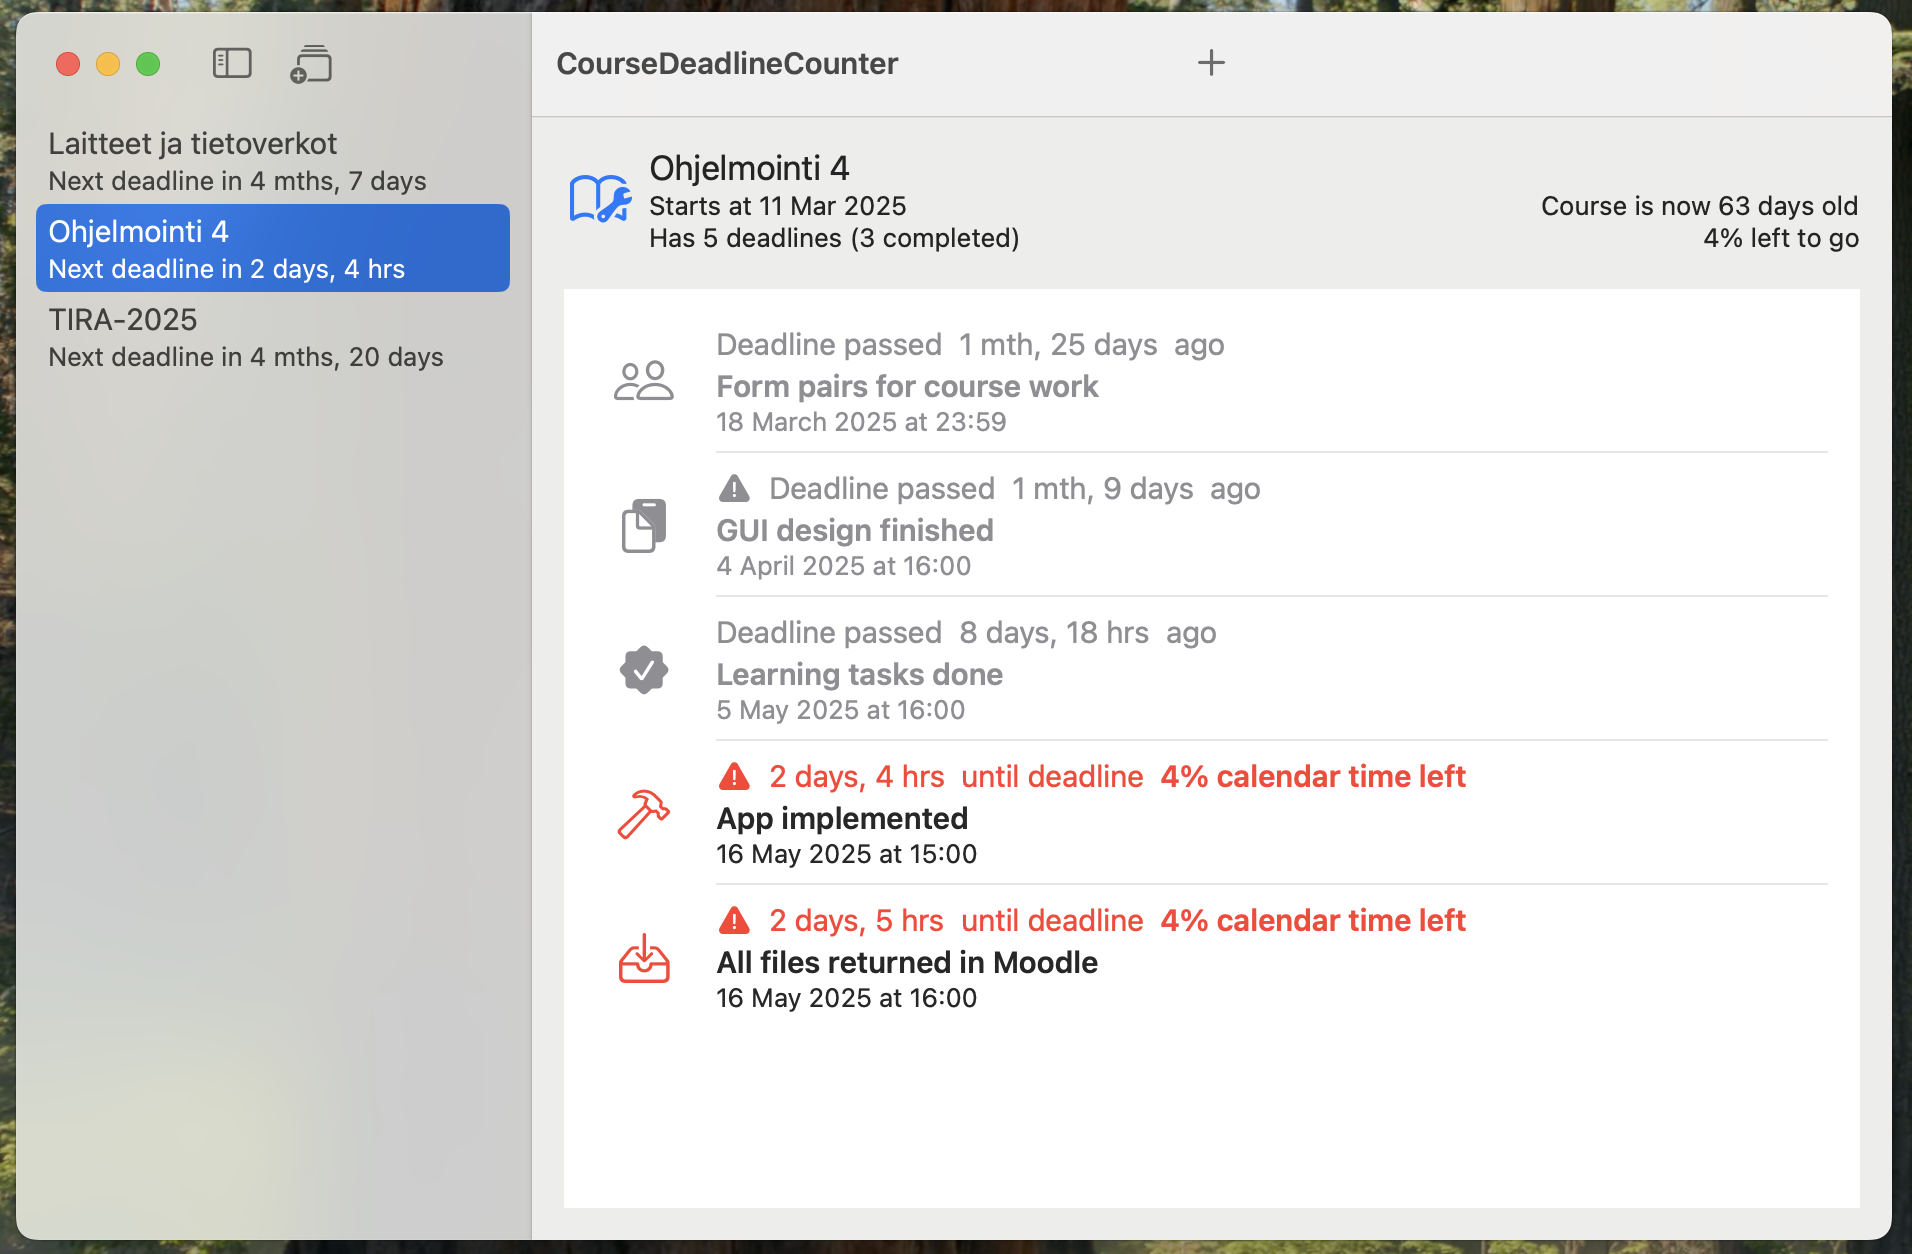
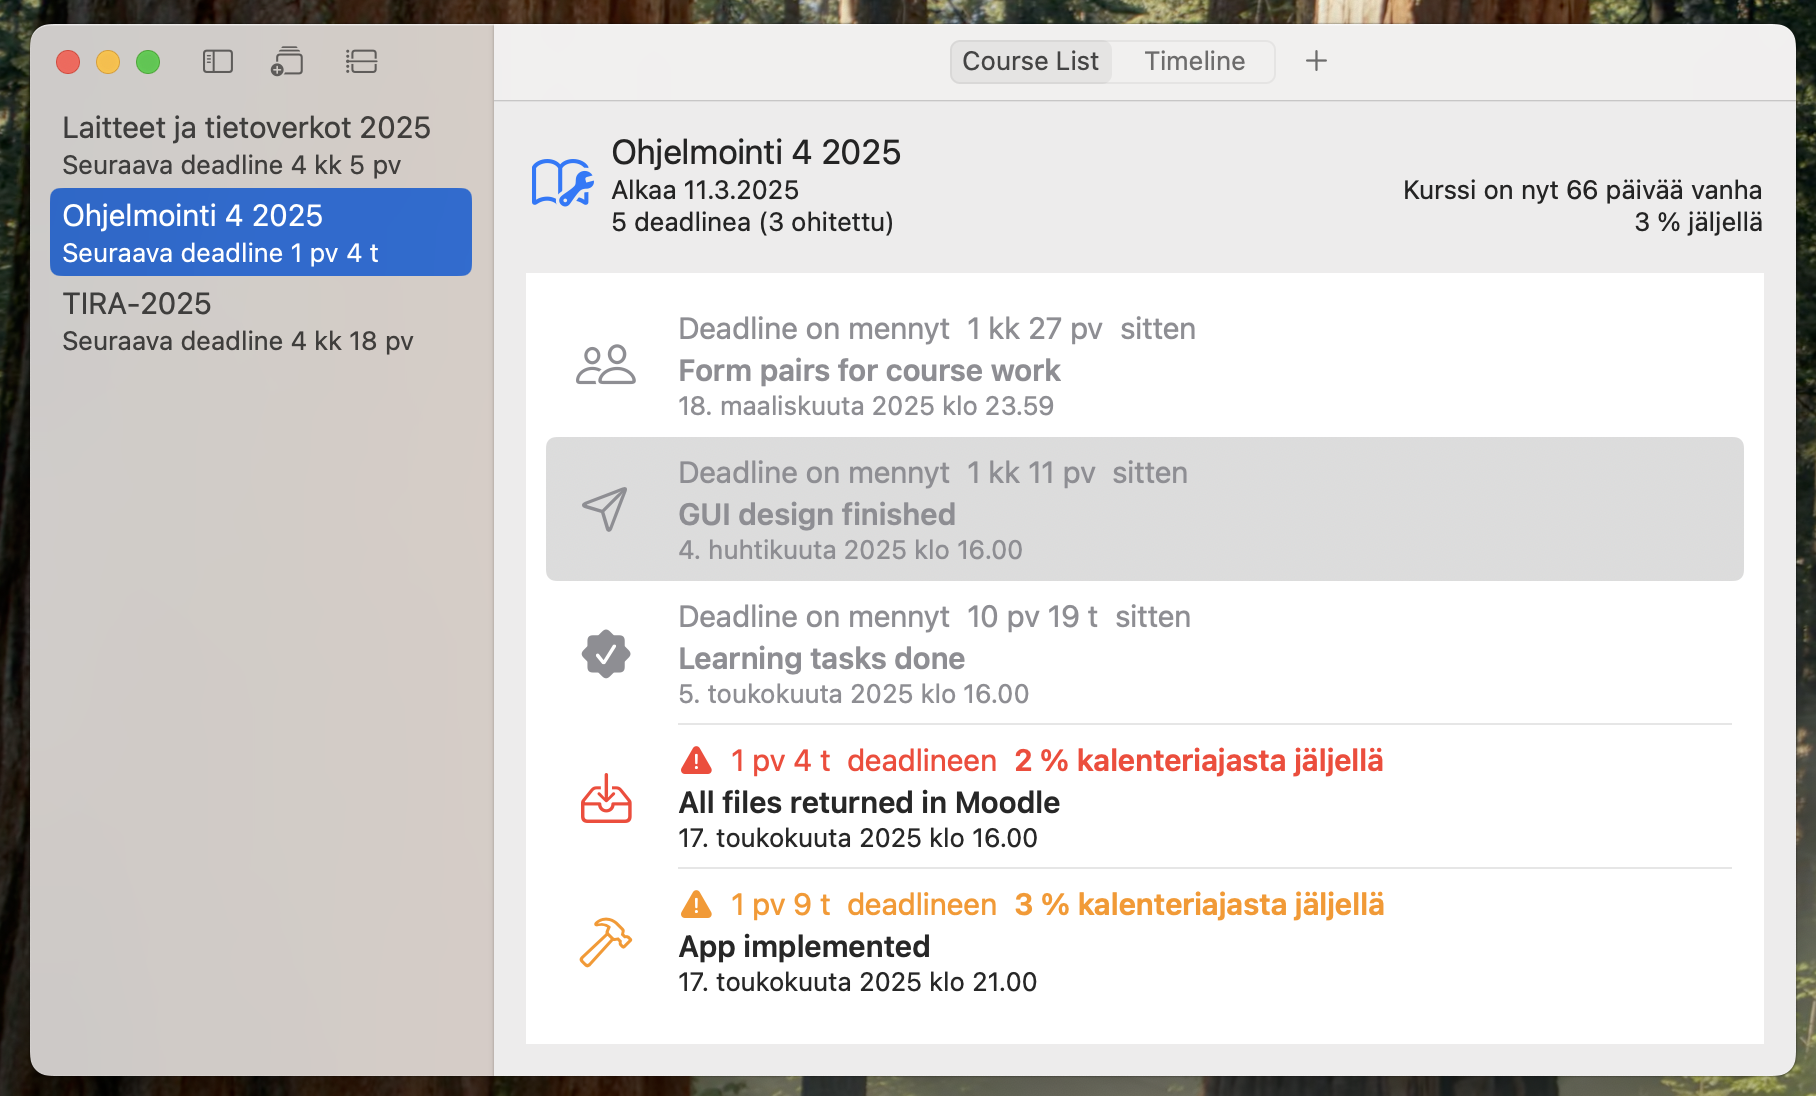
WIP: Still working on TimelineView.

Changed region(s): [[0.0, 0.0, 1.0, 1.0], [0.9868, 0.3102, 1.0, 0.3723], [0.3084, 0.8376, 0.3392, 0.8686]]

diff --git a/CourseDeadlineCounter/View/TimelineView.swift b/CourseDeadlineCounter/View/TimelineView.swift
@@ -11,116 +11,114 @@ struct TimelineView: View {
 	@Environment(Deadlines.self) var deadlines
 	@Environment(\.colorScheme) var colorScheme
 	
-	let timeFrame = TimeInterval(60 * 60 * 24 * 7 * 4 * 6)
-	let margin = 6.0
-
+	let defaultTimeFrame = TimeInterval(60 * 60 * 24 * 7 * 4 * 6)
+	let margin = 1.0
+	
 	var body: some View {
-		Canvas { context, size in
-			
-			var origin = CGPoint(x: margin, y: margin)
-			let text = Text("No courses to show").font(.title)
-			let resolved = context.resolve(text)
-			var symbolHeight = min(size.height / CGFloat(deadlines.courses.count), 24.0)
-			symbolHeight = resolved.measure(in: CGSize(width: size.width, height: 24.0)).height
-
-			// TODO:
-			// - Draw course start symbol
-			// - Use special chars or emojis as symbols and draw as text 🔸🔹🚩🏁
-			// - Draw week lines from first _monday_ from firstDate onwards
-			// - Horizontal lines? Below course, separating courses better?
-			let coursesToPlot = deadlines.notFinished()
-			if coursesToPlot.isEmpty {
-				let rect = CGRect(origin: origin, size: CGSize(width: size.width, height: symbolHeight))
-				context.draw(resolved, in: rect)
-			} else {
-				let firstDate = coursesToPlot.min(by: { $0.startDate < $1.startDate } )?.startDate ?? Date.now.addingTimeInterval(-timeFrame)
-				let lastDate = coursesToPlot.max(by: { $0.endDate < $1.endDate } )?.endDate ?? Date.now.addingTimeInterval(timeFrame)
-				let daysToShow = abs(lastDate.timeIntervalSince(firstDate)) / 86400
-				print("Dates: \(firstDate) - \(lastDate), \(daysToShow) days")
-				let dayWidth: CGFloat = size.width / daysToShow
+		VStack {
+			Text("Deadline is at the symbol location on the timeline")
+				.font(.caption)
+			Divider()
+			Canvas { context, size in
 				
-				print("Day width: \(dayWidth) pixels")
-				print("Canvas size: \(size.width) x \(size.height) pixels")
-				if Date.now > firstDate && Date.now < lastDate {
-					let daysFromFirstDate = abs(firstDate.timeIntervalSince(Date.now)) / 86400
-					origin.x += daysFromFirstDate * dayWidth
-
-					let text = Text("Now").font(.caption)
-					let resolved = context.resolve(text)
+				var origin = CGPoint(x: margin, y: margin)
+				let text = Text("No courses to show").font(.title).bold()
+				let resolved = context.resolve(text)
+				var symbolHeight = min(size.height / CGFloat(deadlines.courses.count), 24.0)
+				symbolHeight = resolved.measure(in: CGSize(width: size.width, height: 24.0)).height
+				
+				// TODO:
+				// - Horizontal lines or a grid drawn at the background? Below course, separating courses better?
+				// - What if the space is too small for all ongoing courses? Zoom or scroll?
+				
+				let coursesToPlot = deadlines.notFinished().sorted(by: { $0.startDate < $1.startDate } )
+				if coursesToPlot.isEmpty {
 					let rect = CGRect(origin: origin, size: CGSize(width: size.width, height: symbolHeight))
 					context.draw(resolved, in: rect)
-					var centerLinePath = Path()
-					centerLinePath.move(to: origin)
-					centerLinePath.addLine(to: CGPoint(x: origin.x, y: size.height))
-					context.stroke(centerLinePath, with: .color(.red))
-				}
-				origin = .zero
-				let weekGap = size.width / (daysToShow / 7)
-				for _ in stride(from: 0, to: daysToShow, by: 7) {
-					var weekLinePath = Path()
-					weekLinePath.move(to: origin)
-					weekLinePath.addLine(to: CGPoint(x: origin.x, y: size.height))
-					context.stroke(weekLinePath, with: .color(.gray))
-					origin.x += weekGap
-				}
-				
-				coursesToPlot.forEach { course in
-					origin.x = margin
-					print("\(course.name)")
-					let text = Text("\(course.name)").font(.title2).foregroundStyle(courseTextColor)
-					let resolved = context.resolve(text)
-					let rect = CGRect(origin: origin, size: CGSize(width: size.width, height: symbolHeight))
-					context.draw(resolved, in: rect)
-					origin.y += symbolHeight + 6
-					if !course.deadlines.isEmpty {
-						for deadline in course.deadlines {
-							print("\(deadline.goal)")
-							let text = (Text(deadline.date.formatted(date: .abbreviated, time: .shortened)) + Text(" \(deadline.goal)").font(.body)).foregroundStyle(deadlineTextColor)
-							let daysFromFirstDate = abs(firstDate.timeIntervalSince(deadline.date)) / 86400
-							origin.x = daysFromFirstDate * dayWidth
-							
-							var path = Path()
-							path.move(to: origin)
-							path.addRect(CGRect(origin: origin, size: CGSize(width: dayWidth, height: symbolHeight)))
-							context.fill(path, with: .color(deadlineColor))
-							
-							origin.x += dayWidth + 2
-							var rect = CGRect(origin: origin, size: CGSize(width: size.width, height: symbolHeight))
-							let resolved = context.resolve(text)
-							let measuredSize = resolved.measure(in: rect.size)
-							if rect.origin.x + measuredSize.width > size.width {
-								rect = rect.offsetBy(dx: -measuredSize.width - dayWidth * 2 , dy: 0)
+				} else {
+					let firstDate = (coursesToPlot.min(by: { $0.startDate < $1.startDate } )?.startDate ?? Date.now.addingTimeInterval(-defaultTimeFrame)).toPreviousMonday()
+					let lastDate = coursesToPlot.max(by: { $0.endDate < $1.endDate } )?.endDate ?? Date.now.addingTimeInterval(defaultTimeFrame)
+					let daysToShow = (abs(lastDate.timeIntervalSince(firstDate)) / 86400) + 4
+					let dayWidth: CGFloat = size.width / daysToShow
+					
+					if Date.now > firstDate && Date.now < lastDate {
+						let daysFromFirstDate = abs(firstDate.timeIntervalSince(Date.now)) / 86400
+						origin.x += daysFromFirstDate * dayWidth
+						let text = Text("Now").font(.caption)
+						let resolved = context.resolve(text)
+						let rect = CGRect(origin: origin, size: CGSize(width: size.width, height: symbolHeight))
+						context.draw(resolved, in: rect)
+						var centerLinePath = Path()
+						centerLinePath.move(to: origin)
+						centerLinePath.addLine(to: CGPoint(x: origin.x, y: size.height))
+						context.stroke(centerLinePath, with: .color(.red))
+					}
+					origin = .zero
+					for week in stride(from: 0, to: daysToShow, by: 7) {
+						var weekLinePath = Path()
+						weekLinePath.move(to: origin)
+						weekLinePath.addLine(to: CGPoint(x: origin.x, y: size.height))
+						context.stroke(weekLinePath, with: .color(Color(.lightGray)))
+						origin.x += dayWidth * 7
+					}
+					
+					coursesToPlot.forEach { course in
+						let daysFromFirstDate = abs(firstDate.timeIntervalSince(course.startDate)) / 86400
+						origin.x = daysFromFirstDate * dayWidth
+
+						let image = Image(systemName: "arrowtriangle.right.square.fill")
+						let resolvedImage = context.resolve(image)
+
+						let text = Text("\(course.name) (\(course.startDate.formatted(date: .numeric, time: .omitted)))").font(.title3).bold().foregroundStyle(courseTextColor)
+						let resolvedCourseText = context.resolve(text)
+						var rect = CGRect(origin: origin, size: CGSize(width: size.width, height: symbolHeight))
+						let measuredSize = resolvedCourseText.measure(in: rect.size)
+						let sizeOfImage = max(resolvedImage.size.height, measuredSize.height)
+
+						origin.x += sizeOfImage + 2
+						context.draw(resolvedCourseText, in: CGRect(origin: origin, size: measuredSize))
+
+						origin.x -= sizeOfImage + 2
+						context.draw(resolvedImage, in: CGRect(origin: origin, size: CGSize(width: sizeOfImage, height: sizeOfImage)))
+						
+						origin.y += symbolHeight
+
+						if !course.deadlines.isEmpty {
+							for deadline in course.deadlines {
+								
+								let text = (Text(deadline.date.formatted(date: .abbreviated, time: .shortened)) + Text(" \(deadline.goal)").font(.body)).foregroundStyle(deadline.color)
+								let resolved = context.resolve(text)
+								let daysFromFirstDate = abs(firstDate.timeIntervalSince(deadline.date)) / 86400
+								origin.x = daysFromFirstDate * dayWidth
+								
+								let image = context.resolve(Image(systemName: deadline.symbol))
+								origin.x -= image.size.width + 2
+								context.draw(image, in: CGRect(origin: origin, size: image.size))
+								origin.x += image.size.width + 2
+								rect = CGRect(origin: origin, size: CGSize(width: size.width, height: symbolHeight))
+								let measuredSize = resolved.measure(in: rect.size)
+								if rect.origin.x + measuredSize.width > size.width {
+									rect = rect.offsetBy(dx: -measuredSize.width - image.size.width - 4.0 , dy: 0)
+								}
+								context.draw(resolved, in: rect)
+								origin.y += symbolHeight + 6
 							}
-							print("rect size: \(rect.width)x\(rect.height), resolved size: \(measuredSize.width)x\(measuredSize.height)")
-							context.draw(resolved, in: rect)
 							origin.y += symbolHeight + 6
 						}
 						origin.y += symbolHeight + 6
 					}
-					origin.y += symbolHeight + 6
 				}
 			}
 		}
+		
+		
 	}
-	
-	private var deadlineColor: Color	{
-		if colorScheme == .dark {
-			return .orange
-		}
-		return .red
-	}
-	private var deadlineTextColor: Color {
-		if colorScheme == .dark {
-			return Color(.lightGray)
-		}
-		return .gray
-	}
-	
+		
 	private var courseTextColor: Color {
 		if colorScheme == .dark {
-			return .white
+			return .purple
 		}
-		return .black
+		return .blue
 	}
 	
 	private var weekGridLineColor: Color {
@@ -129,7 +127,7 @@ struct TimelineView: View {
 		}
 		return .gray
 	}
-		
+	
 }
 
 #Preview {

diff --git a/CourseDeadlineCounter/View/SingleDeadlineListRow.swift b/CourseDeadlineCounter/View/SingleDeadlineListRow.swift
@@ -18,13 +18,13 @@ struct SingleDeadlineListRow: View {
 			Image(systemName: deadline.symbol)
 				.font(.title)
 				.symbolRenderingMode(.multicolor)
-				.foregroundStyle(deadlineColor)
+				.foregroundStyle(deadline.color)
 				.frame(width: 48)
 			VStack(alignment: .leading, spacing: 2) {
 				HStack {
 					if deadline.isDealBreaker {
 						Image(systemName: "exclamationmark.triangle.fill")
-							.foregroundStyle(deadlineColor)
+							.foregroundStyle(deadline.color)
 					}
 					if deadline.isReached {
 						Text("Deadline passed")
@@ -43,7 +43,7 @@ struct SingleDeadlineListRow: View {
 					}
 				}
 				.font(.title3)
-				.foregroundStyle(deadlineColor)
+				.foregroundStyle(deadline.color)
 				VStack(alignment: .leading) {
 					Text(deadline.goal)
 						.font(.title3)
@@ -56,15 +56,4 @@ struct SingleDeadlineListRow: View {
 		.padding(.vertical, 4)
 	}
 	
-	var deadlineColor: Color {
-		if deadline.isReached {
-			return .gray
-		} else if deadline.isHot {
-			return .red
-		} else if deadline.isDealBreaker {
-			return .orange
-		} else {
-			return .accentColor
-		}
-	}
 }

diff --git a/CourseDeadlineCounter/Extensions/Date+Extensions.swift b/CourseDeadlineCounter/Extensions/Date+Extensions.swift
@@ -22,4 +22,15 @@ extension Date {
 		return Calendar.current.date(from: components)!
 	}
 	
+	func toPreviousMonday() -> Date {
+		var tmpDate = self
+		var components = Calendar.current.dateComponents([.year, .month, .day, .hour, .minute, .weekday], from: tmpDate)
+		while components.weekday! != 2 {
+			tmpDate = tmpDate.addingTimeInterval(-86400)
+			components = Calendar.current.dateComponents([.year, .month, .day, .hour, .minute, .weekday], from: tmpDate)
+		}
+		components.second = 0
+		return Calendar.current.date(from: components)!
+	}
+	
 }

diff --git a/CourseDeadlineCounter/Model/Deadlines.swift b/CourseDeadlineCounter/Model/Deadlines.swift
@@ -9,8 +9,7 @@ import Foundation
 import AppKit
 import OSLog
 
-// TODO: Make sure entering new course name does not clash with existing course name.
-// TODO: Make sure deadlines are after the course start date.
+// TODO: Fix: when changing future deadline to past, does not cancel forthcoming alerts.
 
 @Observable
 class Deadlines {
@@ -52,6 +51,7 @@ class Deadlines {
 					}
 				}
 			}
+			courses.removeAll()
 			if !courseNames.isEmpty {
 				log.debug("Found \(courseNames.count) json files in directory")
 				for courseName in courseNames {

diff --git a/CourseDeadlineCounter/View/MainView.swift b/CourseDeadlineCounter/View/MainView.swift
@@ -1,0 +1,30 @@
+//
+//  MainView.swift
+//  CourseDeadlineCounter
+//
+//  Created by Antti Juustila on 16.5.2025.
+//
+
+import SwiftUI
+
+struct MainView: View {
+	@Environment(Deadlines.self) var deadlines
+	
+	var body: some View {
+		TabView {
+			Tab("Course List", systemImage: "book.and.wrench") {
+				ContentView()
+					.environment(deadlines)
+			}
+			Tab("Timeline", systemImage: "calendar.day.timeline.left") {
+				TimelineView()
+					.environment(deadlines)
+			}
+		}
+	}
+	
+}
+
+#Preview {
+	MainView()
+}

diff --git a/CourseDeadlineCounter/View/Deadline+View.swift b/CourseDeadlineCounter/View/Deadline+View.swift
@@ -1,0 +1,22 @@
+//
+//  Deadline+View.swift
+//  CourseDeadlineCounter
+//
+//  Created by Antti Juustila on 16.5.2025.
+//
+
+import SwiftUI
+
+extension Deadline {
+	var color: Color {
+		if isReached {
+			return .gray
+		} else if isHot {
+			return .red
+		} else if isDealBreaker {
+			return .orange
+		} else {
+			return .accentColor
+		}
+	}
+}

diff --git a/CourseDeadlineCounter/View/ContentView.swift b/CourseDeadlineCounter/View/ContentView.swift
@@ -129,12 +129,6 @@ struct ContentView: View {
 						Image(systemName: "rectangle.stack.badge.plus")
 					})
 					.help("Add new course")
-					Button(action: {
-						openWindow(id: "timeline-view")
-					}, label: {
-						Image(systemName: "calendar.day.timeline.left")
-					})
-					.help("View as timeline")
 				}
 			}
 		}, detail: {

diff --git a/CourseDeadlineCounter/CourseDeadlineCounterApp.swift b/CourseDeadlineCounter/CourseDeadlineCounterApp.swift
@@ -14,7 +14,7 @@ struct CourseDeadlineCounterApp: App {
 	
 	var body: some Scene {
 		WindowGroup {
-			ContentView()
+			MainView()
 				.environment(deadlines)
 		}
 		WindowGroup("Timeline View", id: "timeline-view") {
